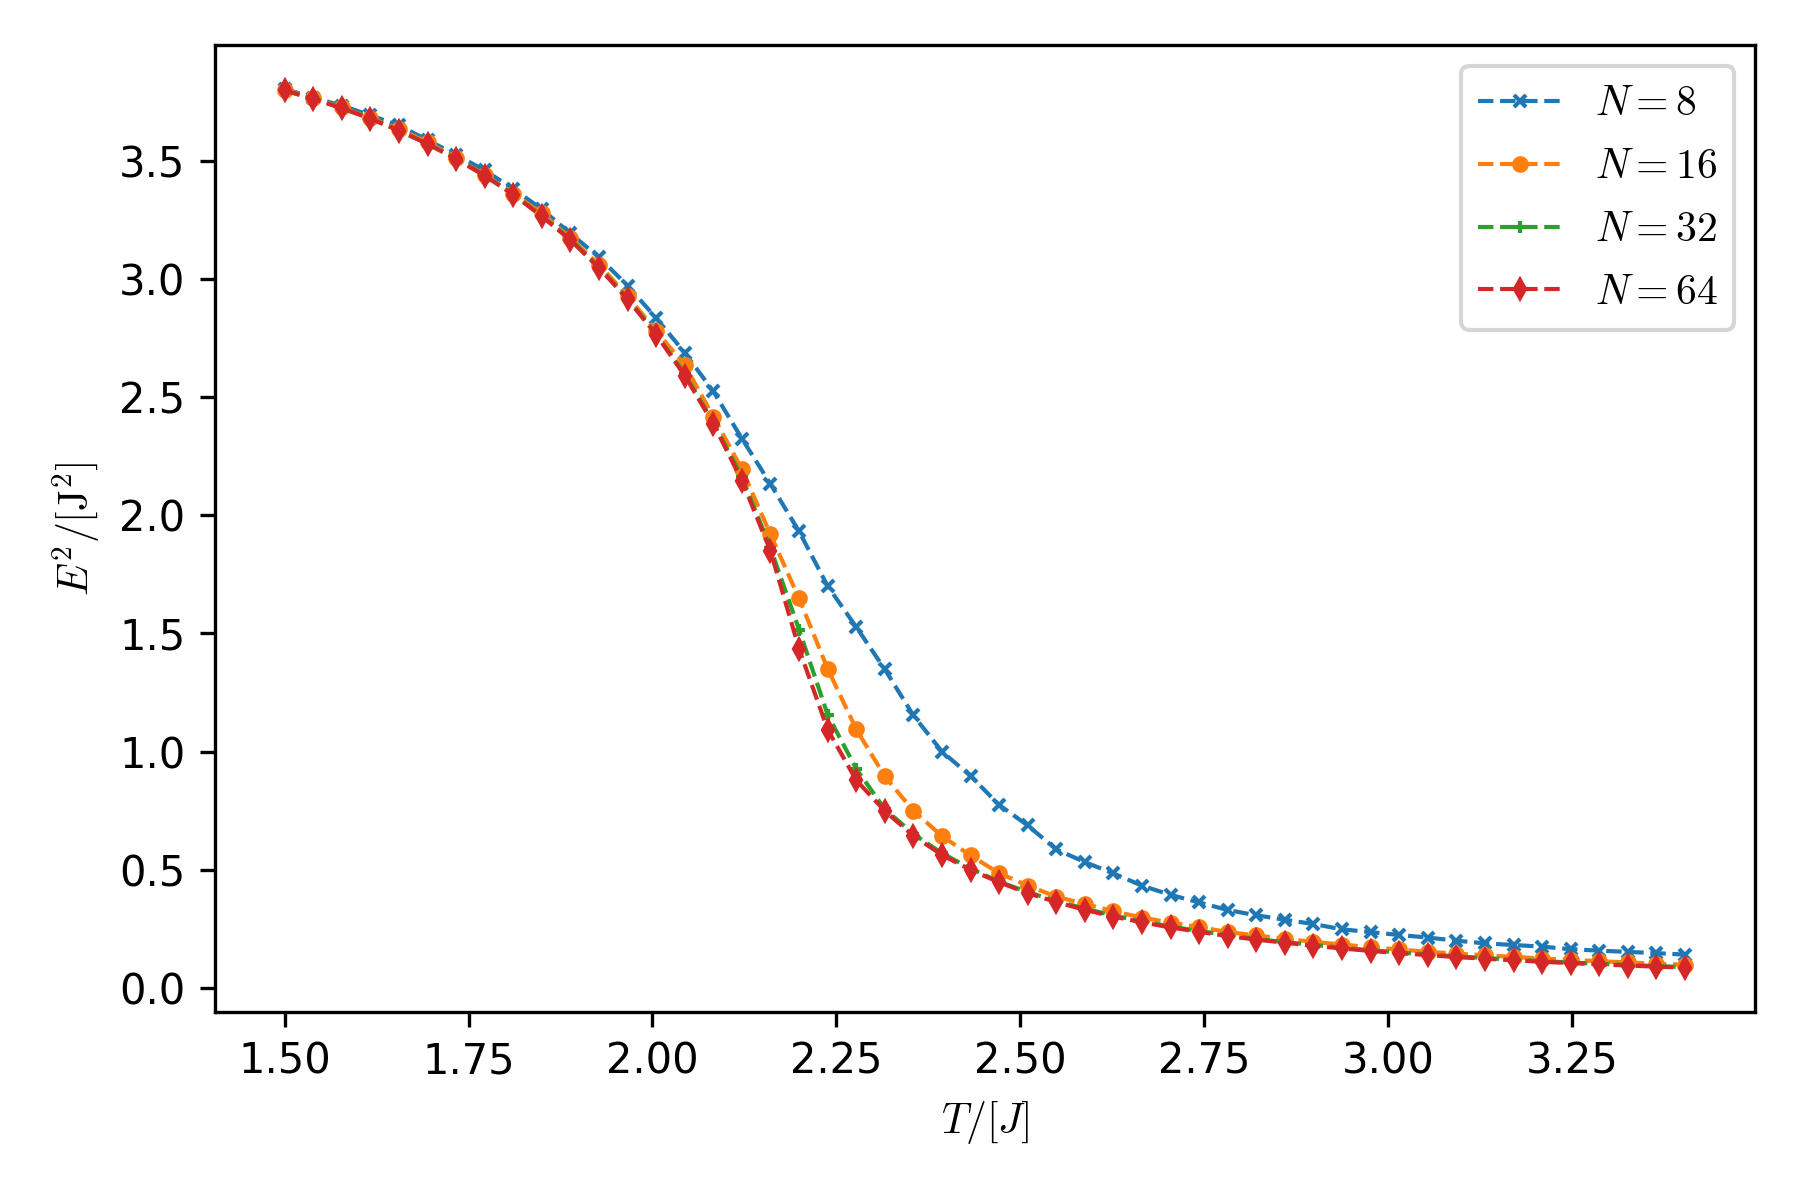
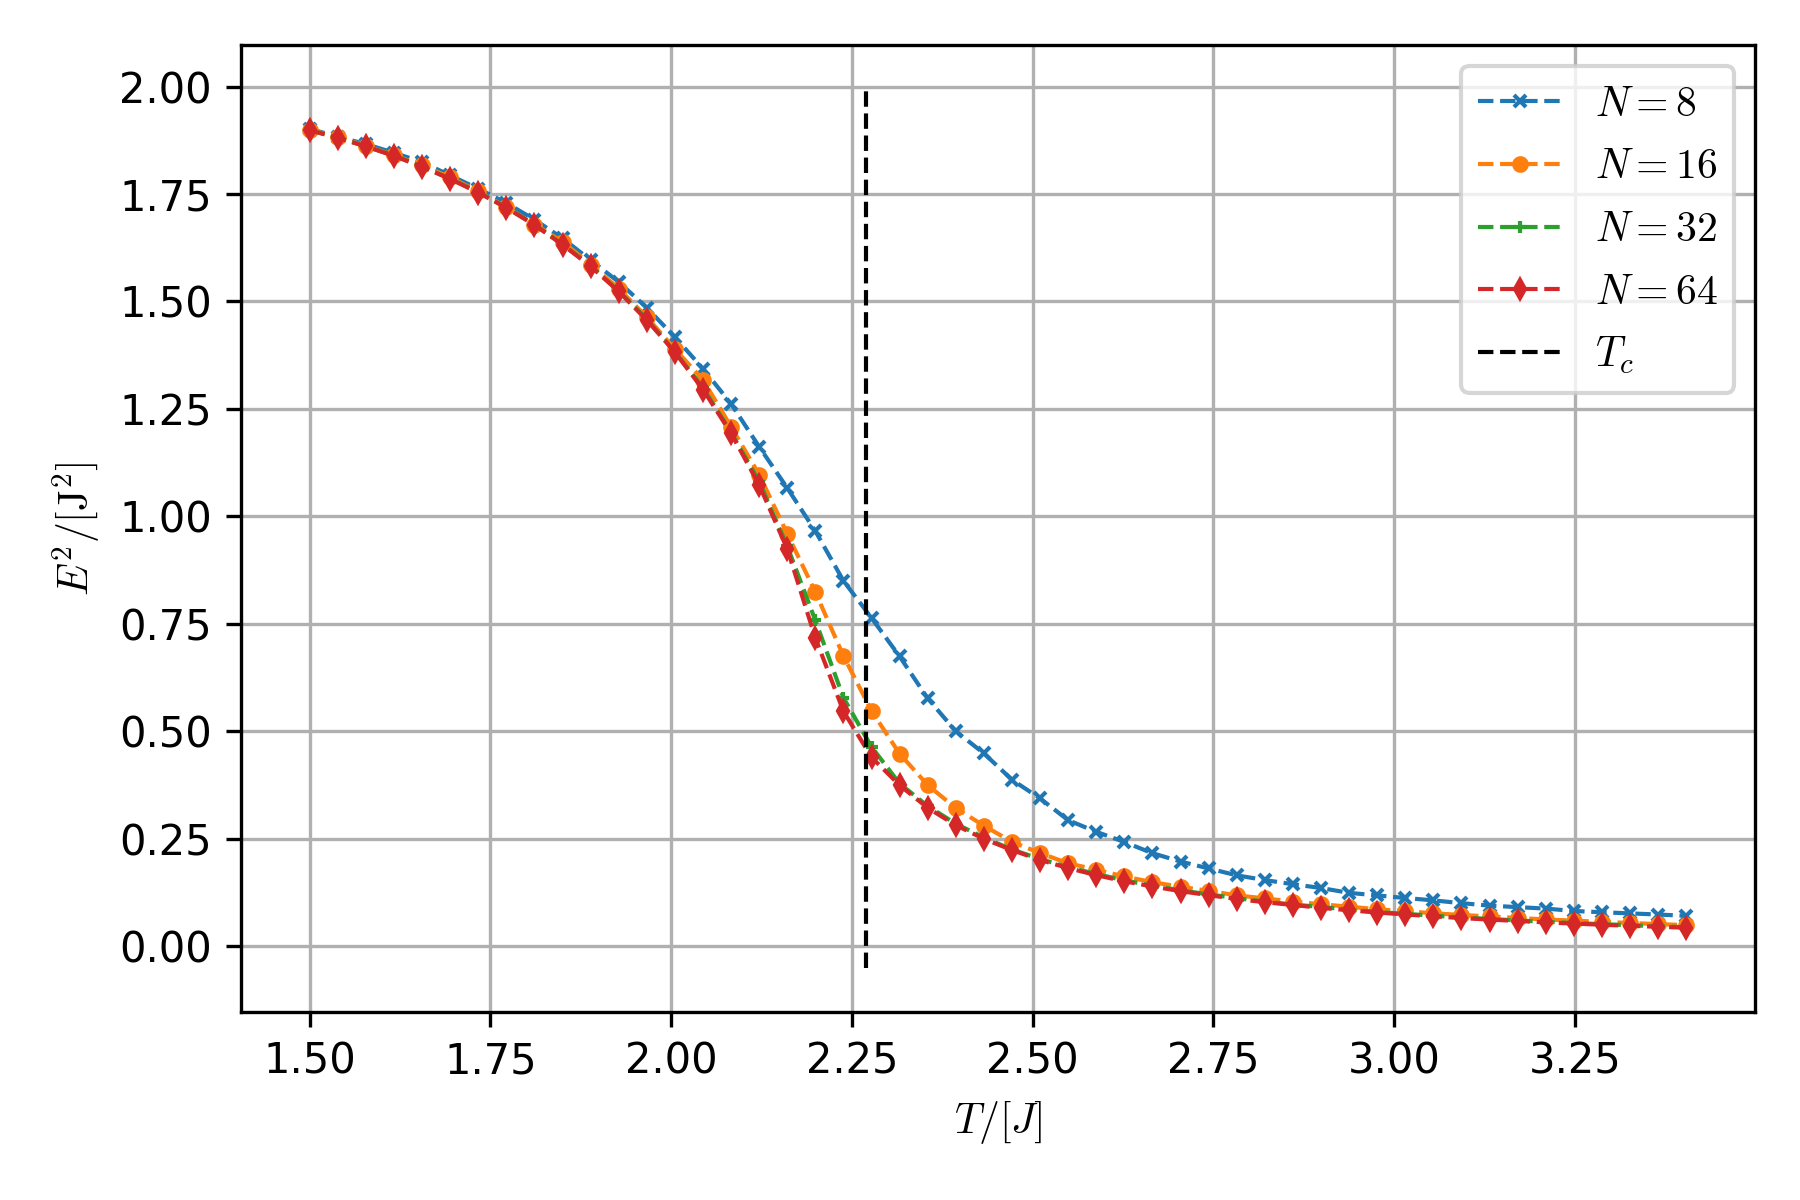
general improvments

diff --git a/plots.py b/plots.py
@@ -38,7 +38,7 @@ def plot_equilibration():
     plt.close(fig)
 
 
-def plot_observables(sub_dir=""):
+def plot_observables(sub_dir):
     Ns, Ts, samples = read_samples(list(observables), sub_dir=sub_dir)
     fig_path = "figs/" + sub_dir
     if not path.isdir(fig_path):
@@ -48,9 +48,12 @@ def plot_observables(sub_dir=""):
         fig, ax = plt.subplots(figsize=(6, 4))
         ax.set_ylabel("$" + quantity + "/[\\mathrm{" + units[quantity] + "}]$")
         ax.set_xlabel("$T / [J]$")
+
         for i, N in enumerate(Ns):
-            ax.plot(Ts, samples[quantity][i], styles[i], label="$N={}$".format(int(N)))
-            ax.legend()
+            ax.plot(Ts, samples[quantity][i] / 2, styles[i], label="$N={}$".format(int(N)))
+        ax.plot([Tc, Tc], ax.get_ylim(), "k--", label="$T_c$")
+        ax.grid(True)
+        ax.legend()        
         
         plt.tight_layout()
         plt.savefig(fig_path + name[quantity] + ".png", dpi=300)
@@ -66,11 +69,37 @@ def plot_funcs(sub_dir=""):
         fig, ax = plt.subplots(figsize=(6, 4))
         ax.set_ylabel("$" + quantity + "/[\\mathrm{" + units[quantity] + "}]$")
         ax.set_xlabel("$T / [J]$")
+
         y = func_of_obs[quantity](samples, Ts, Ns)
         for i, N in enumerate(Ns):
-            ax.plot(Ts, y[i], styles[i], label="$N={}$".format(int(N)))
-            ax.legend()
-        
+            ax.plot(Ts, y[i] / 2, styles[i], label="$N={}$".format(int(N)))
+        ax.plot([Tc, Tc], ax.get_ylim(), "k--", label="$T_c$")
+        ax.grid(True)
+        ax.legend()
+
         plt.tight_layout()
         plt.savefig(fig_path + name[quantity] + ".png", dpi=300)
         plt.close(fig)
+
+def mag_plot(sub_dir):
+    Ns, Ts, samples = read_samples(list(observables), sub_dir=sub_dir)
+    fig_path = "figs/" + sub_dir
+    if not path.isdir(fig_path):
+        mkdir(fig_path)
+
+    quantity = "|M|"
+    fig, ax = plt.subplots(figsize=(6, 4))
+    ax.set_ylabel("$" + quantity + "/[\\mathrm{" + units[quantity] + "}]$")
+    ax.set_xlabel("$T / [J]$")
+    for i, N in enumerate(Ns):
+        ax.plot(Ts, samples[quantity][i], styles[i], label="$N={}$".format(int(N)))
+    Ts2 = np.linspace(1.5, Tc, 1000)
+    ax.plot(Ts2, (1 - np.sinh(2/ Ts2)**(-4))**(1 / 8), "--", label="Analytical sol.")
+    ax.legend()
+    ax.grid(True)
+    
+    plt.savefig(fig_path + "analytic.png")
+    plt.close(fig)
+
+def time_dependence(sub_dir):
+    pass

diff --git a/main.py b/main.py
@@ -5,19 +5,19 @@ from physical_quantities import observables, Tc
 from plots import *
 from time import time
 
-equib = 100_000
-n = 100_000
+equib = 10_000
+n = 10_000
 sub_dir = "quantities/"
 
 # number of different tempratures to simulate
 temps = 50
-Ts = np.linspace(1.5, 1.5 * Tc, temps)
+Ts = np.linspace(1.5, 3, temps)
 # The different sizes of the grid to simutale
-Ns = [8, 16, 32, 64]
+Ns = [8, 16, 32]
 sizes = len(Ns)
 
 
-def sample_observables(sub_dir=""):
+def sample_observables(sub_dir):
     """ creates a file with samples of the observables from a MC-walk """
 
     bar = Bar("sampling", max=sizes * temps)
@@ -40,8 +40,20 @@ def sample_observables(sub_dir=""):
     write_samples(samples_dict, Ns, Ts, times, sub_dir=sub_dir)
 
 
-if __name__ == "__main__":
-    # plot_equilibration()
-    # sample_observables(sub_dir=sub_dir)
+def full_suite(sub_dir="test", gen_data=False):
+    """ Runs the full suit of functinos: generating data and making plots """
+
+    if gen_data:
+        sample_observables(sub_dir=sub_dir)
+    
     plot_observables(sub_dir=sub_dir)
     plot_funcs(sub_dir=sub_dir)
+    mag_plot(sub_dir=sub_dir)
+
+
+
+
+if __name__ == "__main__":
+    # plot_equilibration()
+
+    full_suite(gen_data=True)

diff --git a/utilities.py b/utilities.py
@@ -9,6 +9,7 @@ def get_s(N):
 
 def get_delta_H(s, N):
     """ retrns lattice with change in energy from flipping each spin"""
+
     sum_neigh = np.zeros_like(s)
     for j in range(2):
         for n in (-1, 1):
@@ -18,6 +19,7 @@ def get_delta_H(s, N):
 
 def MC_sweep(s, N, T):
     """ MC-hastings sweep, with prob. c of trying to flipping each spin each loop """
+
     c = 0.5
     for _ in range(int(1 / c)):
         to_flip = rand(N, N) < c
@@ -30,6 +32,7 @@ def MC_sweep(s, N, T):
 
 def get_sample_from_state(s, N, observables):
     """ samples a set of observables from a configuration of s """
+
     sample = np.empty(len(observables))
     for i, key in enumerate(observables):
         sample[i] = observables[key](s, N)
@@ -42,6 +45,7 @@ def get_samples(N, T, n, equib, observables):
     n MC-sweeps and at temprature T samples all the observables, 
     returning an array of the samples
     """
+
     sample_avg = np.zeros(len(observables))
     s = get_s(N)
     for _ in range(equib):
